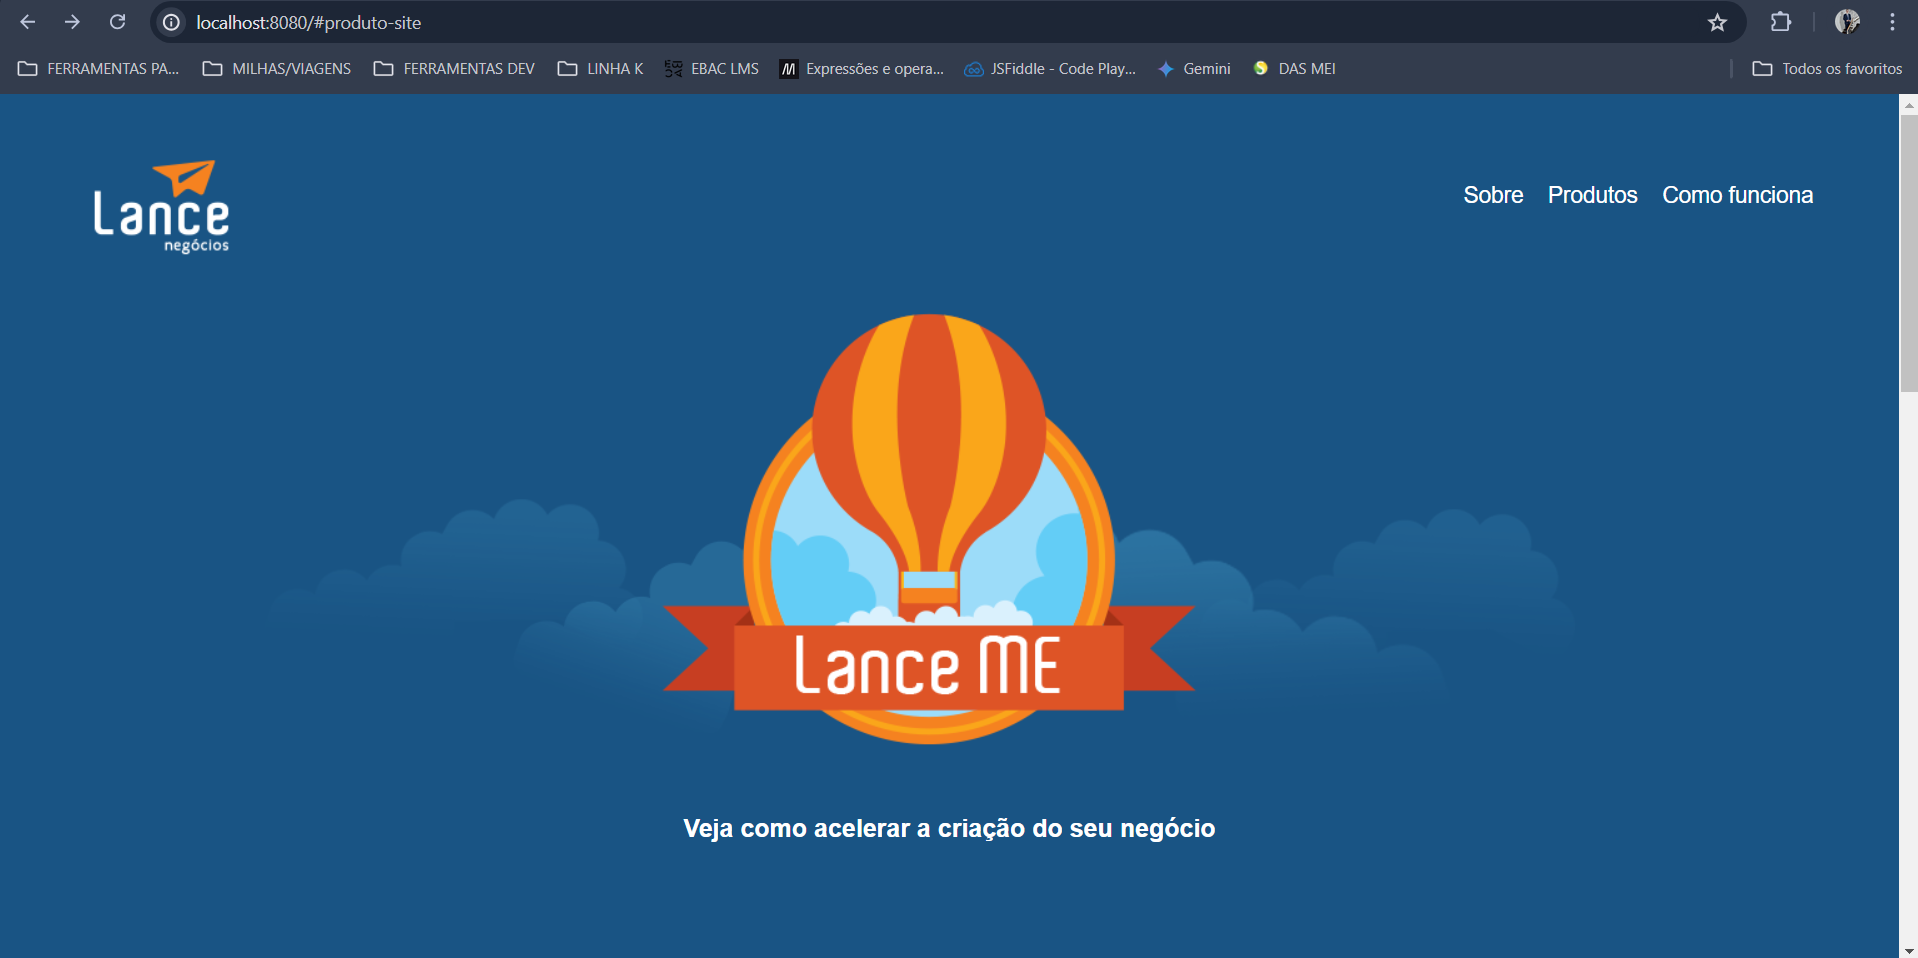
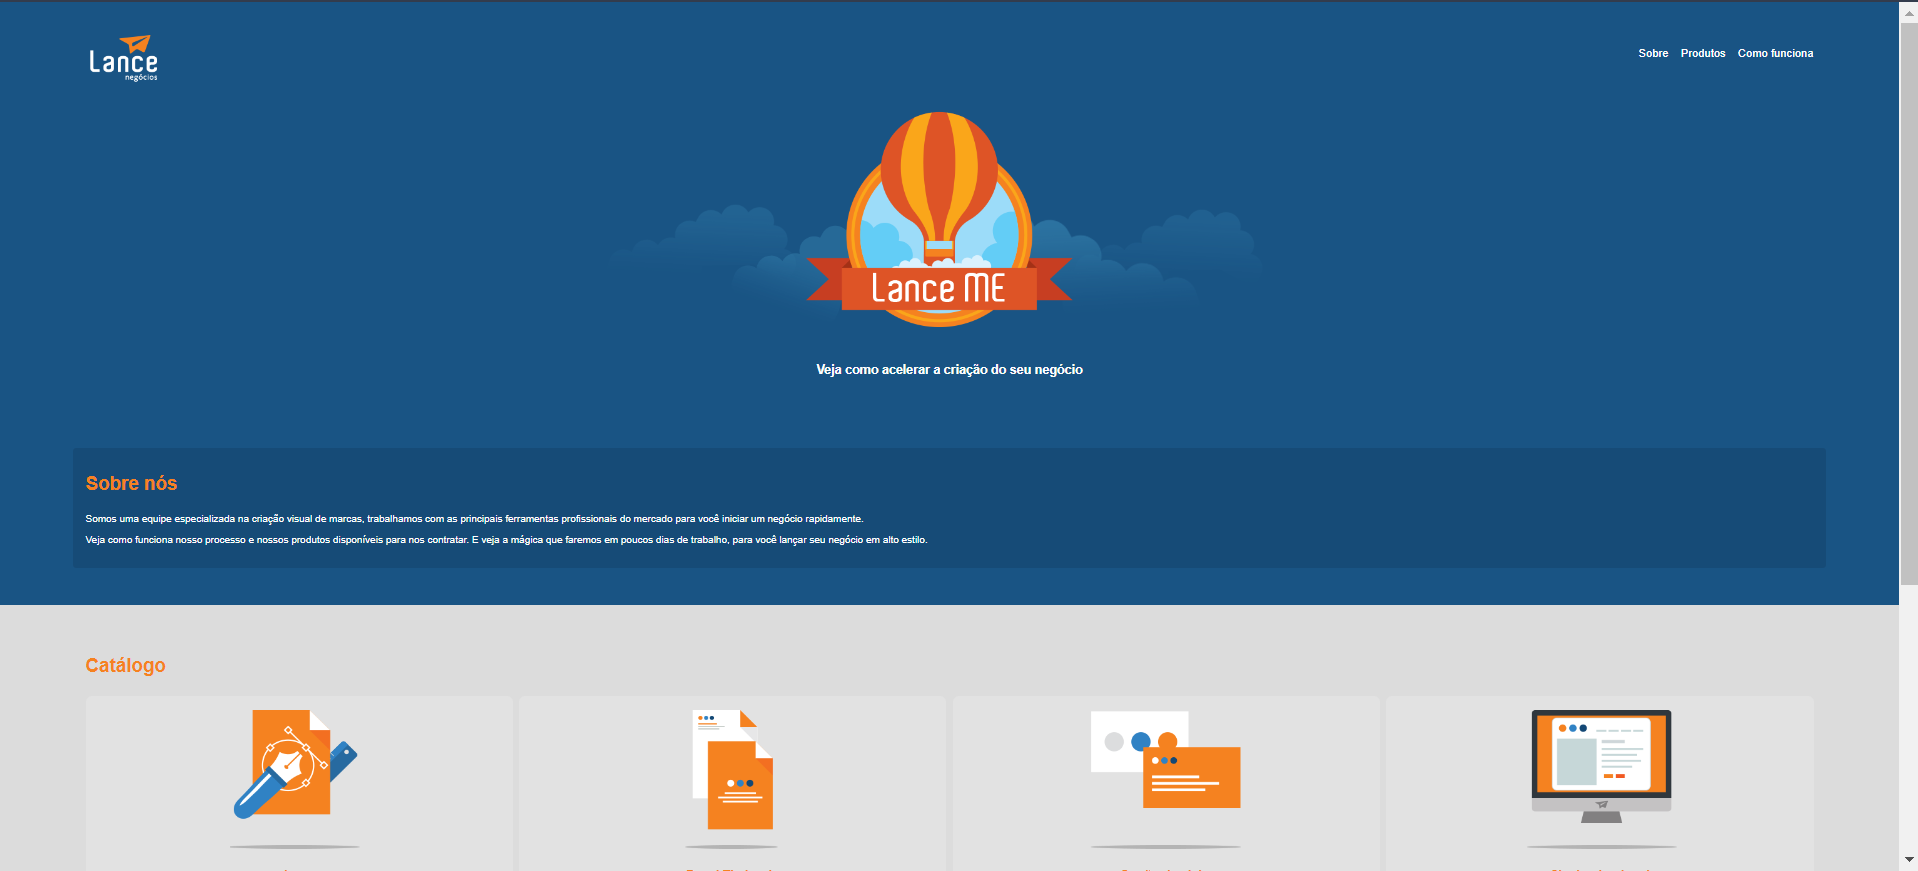
layout responsivo

diff --git a/src/index.html b/src/index.html
@@ -11,22 +11,23 @@
     <div id="root">
         <header>
             <div class="container">
-                <h2 class="logo">
+                <h2 class="logo col-1">
                     <img src="./assets/images/logo-lance.png" alt="Lance Negócios">
                 </h2>
-                <nav class="nav">
+                <nav class="nav col-5">
                     <a class="nav__item" href="#sobre">Sobre</a>
                     <a class="nav__item" href="#produtos">Produtos</a>
                     <a class="nav__item" href="#como-funciona">Como funciona</a>
                 </nav>
-                <div class="hero">
+                <div class="hero col-12">
+                    <img src="assets/images/banner-lance-me.png">
                     <h1>Veja como acelerar a criação do seu negócio</h1>
                 </div>
             </div>
         </header>
         <section id="sobre">
             <div class="container">
-                <article>
+                <article class="col-12">
                     <h1>Sobre nós</h1>
                     <p>Somos uma equipe especializada na criação visual de marcas, trabalhamos com as principais ferramentas profissionais do mercado para você iniciar um negócio rapidamente.</p>
                     <p>Veja como funciona nosso processo e nossos produtos disponíveis para nos contratar. E veja a mágica que faremos em poucos dias de trabalho, para você lançar seu negócio em alto estilo.</p>
@@ -35,10 +36,10 @@
         </section>
         <section id="produtos">
             <div class="container">
-                <article>
+                <article class="col-12">
                     <h1>Catálogo</h1>
                     <div class="vitrine">
-                        <div class="vitrine__item">
+                        <div class="vitrine__item col-12">
                             <div class="vitrine__image">
                                 <img src="./assets/images/produto-logo.png" alt="Criação de Logo">
                             </div>
@@ -46,7 +47,7 @@
                             <p class="vitrine__desc">Design profissional de logos para você começar</p>
                             <a href="#produto-logo" class="vitrine__button">Tenho interresse</a>
                         </div>
-                        <div class="vitrine__item">
+                        <div class="vitrine__item col-12">
                             <div class="vitrine__image">
                                 <img src="./assets/images/produto-timbrado.png" alt="Papel Timbrado">
                             </div>
@@ -56,7 +57,7 @@
                             </p>
                             <a href="#produto-timbrado" class="vitrine__button">Tenho interesse</a>
                         </div>
-                        <div class="vitrine__item">
+                        <div class="vitrine__item col-12">
                             <div class="vitrine__image">
                                 <img src="./assets/images/produto-cartao.png" alt="Cartão de visita">
                             </div>
@@ -66,7 +67,7 @@
                             </p>
                             <a href="#produto-cartao" class="vitrine__button">Tenho interesse</a>
                         </div>
-                        <div class="vitrine__item">
+                        <div class="vitrine__item col-12">
                             <div class="vitrine__image">
                                 <img src="./assets/images/produto-site.png" alt="Site institucional">
                             </div>
@@ -83,26 +84,26 @@
 
         <section id="como-funciona">
             <div class="container">
-                <article>
+                <article class="col-12">
                     <h1>Como funciona</h1>
                     <div class="steps">
-                        <div class="steps__item">
+                        <div class="steps__item col-5">
                             <img src="./assets/images/escolha.png" alt="Escolha seu lance">
                             <h3>Escolha seu lance</h3>
                         </div>
-                        <div class="steps__item">
+                        <div class="steps__item col-5">
                             <img src="./assets/images/lance.png" alt="Pague o item escolhido">
                             <h3>Lance seu pagamento</h3>
                         </div>
-                        <div class="steps__item">
+                        <div class="steps__item col-5">
                             <img src="./assets/images/trabalhamos.png" alt="Trabalhamos">
                             <h3>Após a confirmação do pagamento, iniciamos os trabalhos.</h3>
                         </div>
-                        <div class="steps__item">
+                        <div class="steps__item col-5">
                             <img src="./assets/images/voce-aprova.png" alt="Você aprova">
                             <h3>Em poucos dias você recebará o trabalho pronto para avaliar.</h3>
                         </div>
-                        <div class="steps__item">
+                        <div class="steps__item col-5">
                             <img src="./assets/images/lancamos.png" alt="Lance seu negócio">
                             <h3>Se estiver tudo ok para você, você lança seu negócio <span>=)</span></h3>
                         </div>
@@ -112,7 +113,7 @@
         </section>
         <footer>
             <div class="container">
-                <p>&copy; Todos os direitos reservados. <br>
+                <p class="col-12">&copy; Todos os direitos reservados. <br>
                 <small>Desenvolvido por <a href="https://github.com/cavalcantemmarcelo">Marcelo</a>.</small></p>
             </div>
         </footer>

diff --git a/src/scss/styles.scss b/src/scss/styles.scss
@@ -9,6 +9,16 @@ $font-size-nav: 1.8rem;
 @import 'fonts';
 @import url('https://fonts.googleapis.com/css2?family=Fruktur&display=swap');
 @import 'nav';
+@import 'grid';
+
+@viewport {
+    width: device-width;
+    zoom: 1;
+}
+
+* {
+  box-sizing: border-box;  
+}
 
 html {
     font-size: 62.5%;
@@ -19,6 +29,7 @@ body {
     background-color: $color-primary;
     font-family: $font-default;
     margin: 0;
+    font-size: 1.4rem;
 }
 
 h1 {
@@ -60,11 +71,24 @@ section {
     margin: 0;
 }
 
+img {
+    max-width: 100%;
+    height: auto;
+}
+
 .container {
     display: flex;
     flex-flow: column;
     margin: 0 auto;
     max-width: 90vw;
+
+    // @media (max-width: 768px) {
+    //     max-width: 99%;
+    // }
+
+    // @media (min-width: 1024px) {
+    //     background-color: coral;
+    // }
 }
 
 @import 'animations';
@@ -74,3 +98,4 @@ section {
 @import 'vitrine';
 @import 'steps';
 @import 'footer';
+@import 'responsive';

diff --git a/src/scss/_header.scss b/src/scss/_header.scss
@@ -7,18 +7,32 @@ header .container {
 
     .hero {
         align-items: flex-end;
-        background-image: url('../assets/images/banner-lance-me.png');
+        //background-image: url('../assets/images/banner-lance-me.png');
         background-repeat: no-repeat;
         background-position: top center;
+        justify-content: center;
+        flex-direction: column;
         height: 45rem;
         display: flex;
         padding-bottom: 4rem;
+        overflow: hidden;
         width: 100%;
 
         h1 {
             padding: 1rem 0 0;
             text-align: center;
             width: 100%;
+        }
+
+        @media (max-width: 767px) {
+            img {
+                margin-left: -50%;
+                position: relative;
+                width: 230%;
+                max-width: none;
+                margin-right: -68%;
+                margin-top: 90px;
+            }
         }
     }
 

diff --git a/src/scss/_grid.scss b/src/scss/_grid.scss
@@ -1,0 +1,30 @@
+.col-1 {width: 8.33%}
+.col-2 {width: calc(8.33% * 2)}
+.col-3 {width: calc(8.33% * 3)}
+.col-4 {width: calc(8.33% * 4)}
+.col-5 {width: calc(8.33% * 5)}
+.col-6 {width: calc(8.33% * 6)}
+.col-7 {width: calc(8.33% * 7)}
+.col-8 {width: calc(8.33% * 8)}
+.col-9 {width: calc(8.33% * 9)}
+.col-10 {width: calc(8.33% * 10)}
+.col-11 {width: calc(8.33% * 11)}
+.col-12 {width: calc(8.33% * 12)}
+
+@media (max-width: 767px) {
+
+    [class*="col-" ] {
+        width: 100%;
+        padding-left: 2rem;
+        padding-right: 2rem;
+    }
+
+}
+
+@media (min-width: 768px) and (max-width: 1199px) {
+    
+    .logo {
+        width: calc(8.33% * 2);
+    }
+
+}

diff --git a/src/scss/_vitrine.scss b/src/scss/_vitrine.scss
@@ -3,6 +3,11 @@
     grid-template-columns: repeat(4, 1fr);
     gap: 1rem;
 
+    @media (max-width: 767px) {
+        grid-template-columns: repeat(1, 1fr);
+        gap: 4rem;
+    }
+
     &__item {
         background-color: rgba(250, 250, 250, .2);
         border-radius: 1rem;

diff --git a/src/scss/_responsive.scss b/src/scss/_responsive.scss
@@ -1,0 +1,10 @@
+@media only screen and (max-width: 600px) and (min-widht: 300px){
+
+    body {
+        font-size: 1.6rem;
+    }
+
+    .container {
+        width: 100%;
+    }
+}

diff --git a/src/scss/_steps.scss b/src/scss/_steps.scss
@@ -11,7 +11,6 @@
 
     &__item {
         margin: 1rem;
-        width: calc(80% / 5 - 1rem);
         text-align: center;
         span {
             color: $color-secondary;
